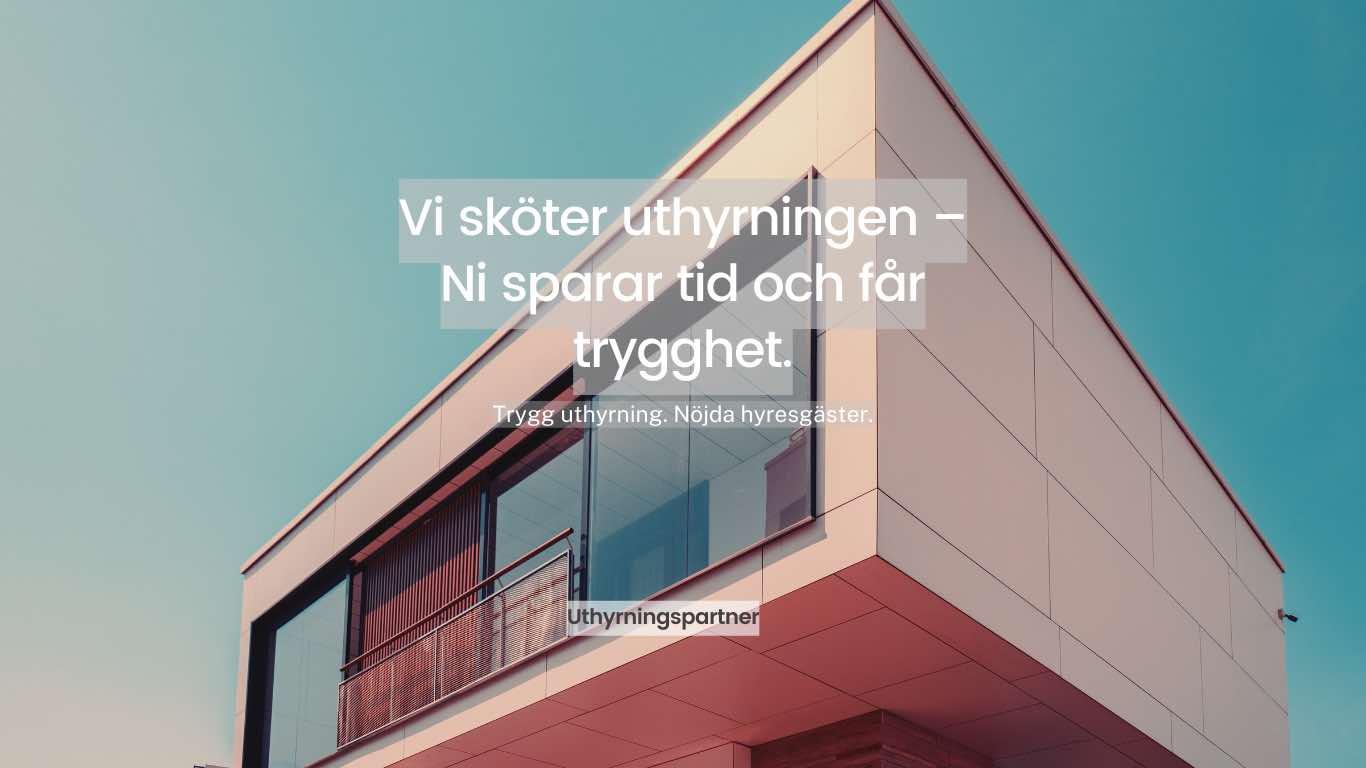
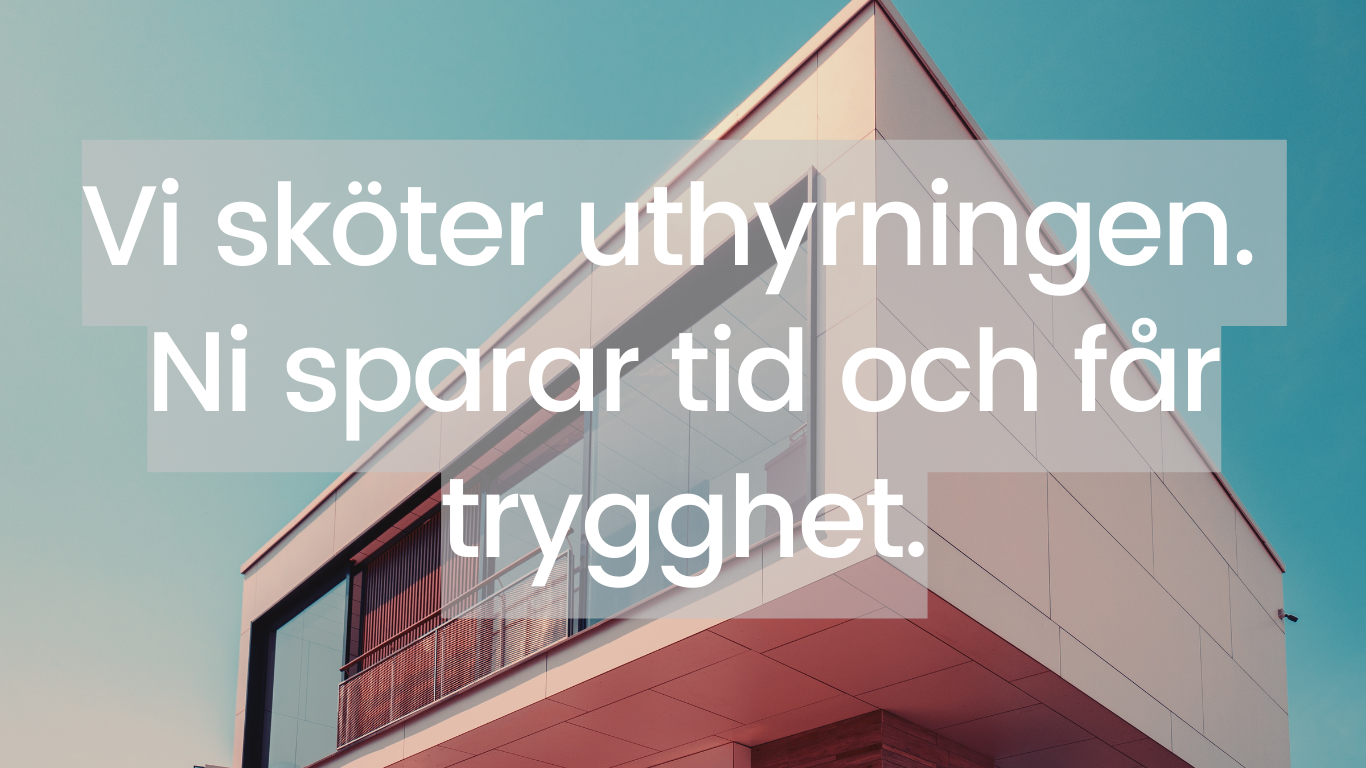
updated text, img res, and padding

diff --git a/index.html b/index.html
@@ -32,10 +32,10 @@
     <main>
         <section id="info" class="info">
             <div class="half-width box">
-                <h1>Experthjälp inom fastighetsuthyrning<br><br></h1>
-                <p>Uthyrningspartner gör det smidigare och mer effektivt för företag att hantera sin
-                    fastighetsuthyrning. Med oss som partner får ni ut mer av era fastighetslösningar genom heltäckande
-                    uthyrningstjänster<br><br></p>
+                <h1>Experthjälp inom uthyrning av bostäder och lokaler<br><br></h1>
+                <p> Vi på Uthyrningspartner gör det smidigare och mer effektivt för företag att hantera sin uthyrning. Genom ett nytänkande sätt vill vi hjälpa fastighetsägare att minska sina vakanser.
+                    Vi går bortom de traditionella ramarna för uthyrning och tar det där extra steget för att säkerställa en framgångsrik uthyrningsprocess.
+                    Med oss som partner får ni ut mer av era fastighetslösningar genom heltäckande uthyrningstjänster.<br><br></p>
                 <button type="button" class="button" id="toggleAll">Läs mer</button>
             </div>
             <div class="half-width box">
@@ -64,14 +64,12 @@
             <div class="half-width box">
                 <h1>Om oss<br><br></h1>
                 
-                <p>På uthyrningspartner har vi lång erfarehet inom fastighetsbranchen och en djup förståelse för vad som
-                    krävs för att lyckas med uthyrning av fastigheter. Vår passion är att hjälpa fastighetsägare att
-                    maximera sin uthyrningspotential genom att förbättra och effektivesera hela proccessen.<br><br></p>
-                <p>Vi vet att en snabbare och bättre uthyrning inte bara leder till nöjdare hyresgäster, utan ochså till
-                    högre inkomster för fastighetsägare. Därför erbjuder vi en kvalitietjänst där varje steg hanteras av
-                    kunnig personal och en välfungerande proccess som säkerställer bästa möjliga resultat.<br><br></p>
-                <p>På Uthyrningspartner tror vi på att leverara tjänster av högsta kvalitet, alltid med fokus på att
-                    skapa långsiktiga och framgångrika uthyrningslösningar för våra kunder.<br><br></p>
+                <p>På Uthyrningspartner har vi lång erfarenhet inom fastighetsbranschen och en djup förståelse för vad som krävs för att lyckas med uthyrning av fastigheter. 
+                    Vår drivkraft är att hjälpa fastighetsägare att maximera sin uthyrningspotential genom att förbättra och effektivisera hela processen.<br><br></p>
+                <p>Vi vet att en snabbare och mer kvalitativ uthyrning inte bara leder till nöjdare hyresgäster, utan också ökar lönsamheten för fastighetsägare. Därför erbjuder vi en kvalitétjänst där varje steg hanteras av kunnig och engagerad personal, med en välbeprövad process som levererar bästa möjliga resultat. 
+                    Snabb återkoppling och att ta det extra steget för en framgångsrik uthyrning är självklart för oss.<br><br></p>
+                <p> I en traditionell bransch där man ofta följer invanda rutiner strävar vi efter att sticka ut med nytänkande och innovativa lösningar.
+                    På Uthyrningspartner tror vi på att leverera tjänster av högsta kvalitet, alltid med fokus på att skapa långsiktiga och framgångsrika uthyrningslösningar för våra kunder.<br><br></p>
                 <p>Välkommen till Uthyrningspartner - din pålitliga partner för effektiv och lönsam uthyrning.<br><br>
                 </p>
             </div>

diff --git a/styles.css b/styles.css
@@ -78,10 +78,11 @@ h2 {
 }
 
 .section-header {
-    background-color: #f8f9fa;
+    background-color: #2C424C;
     margin: 0;
     padding: 15px;
     cursor: pointer;
+    color:#fff;
 }
 
 .section-content {
@@ -190,6 +191,7 @@ header {
     padding: 20px;
     background-color: var(--secondary-color);
     display: flex;
+    padding-top: 100px;
 }
 
 /* Info End */
@@ -236,7 +238,7 @@ footer {
     align-items: center;
     justify-content: space-between;
     height: 100%;
-    padding-top: 100px;
+   
 }
 
 /* Footer End */
@@ -260,6 +262,7 @@ footer {
 
     .info {
         flex-direction: column;
+        padding-top: 20px;
     }
 
     .about {
@@ -280,7 +283,7 @@ footer {
     }
 
     .button { 
-        min-width: 0px;
+        min-width: 250px;
     }
 
     .about img {
